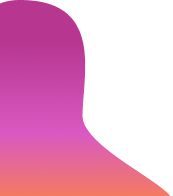
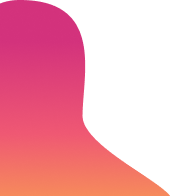
feat: mobile frontend updates - auth, signup, profile, assets

diff --git a/apps/mobile/app/(app)/signup/step3.tsx b/apps/mobile/app/(app)/signup/step3.tsx
@@ -414,7 +414,7 @@ export default function SignupStep3Screen() {
           >
             <Text style={styles.optionText}>{option}</Text>
             {gender === option && (
-              <Ionicons name="checkmark" size={18} color="#7C57C8" />
+              <Ionicons name="checkmark" size={18} color="#8E1C62" />
             )}
           </Pressable>
         ))}
@@ -444,7 +444,7 @@ export default function SignupStep3Screen() {
           >
             <Text style={styles.optionText}>{option}</Text>
             {lookingFor === option && (
-              <Ionicons name="checkmark" size={18} color="#7C57C8" />
+              <Ionicons name="checkmark" size={18} color="#8E1C62" />
             )}
           </Pressable>
         ))}
@@ -616,7 +616,7 @@ const styles = StyleSheet.create({
   },
   backButtonText: {
     fontSize: 30,
-    color: '#4C2376',
+    color: '#8E1C62',
     fontWeight: '900',
   },
   content: {
@@ -628,7 +628,7 @@ const styles = StyleSheet.create({
   title: {
     fontSize: 18,
     fontWeight: '700',
-    color: '#4C2376',
+    color: '#8E1C62',
     textAlign: 'center',
     marginBottom: 52,
   },
@@ -711,7 +711,7 @@ const styles = StyleSheet.create({
     backgroundColor: '#B9B9B9',
   },
   activeDot: {
-    backgroundColor: '#7C57C8',
+    backgroundColor: '#8E1C62',
   },
   modalOverlay: {
     flex: 1,
@@ -728,7 +728,7 @@ const styles = StyleSheet.create({
   modalTitle: {
     fontSize: 18,
     fontWeight: '700',
-    color: '#4C2376',
+    color: '#8E1C62',
     marginBottom: 14,
     textAlign: 'center',
   },
@@ -747,7 +747,7 @@ const styles = StyleSheet.create({
   },
   modalDoneButton: {
     marginTop: 16,
-    backgroundColor: '#D85BC7',
+    backgroundColor: '#D3327C',
     borderRadius: 999,
     alignItems: 'center',
     justifyContent: 'center',
@@ -793,13 +793,13 @@ const styles = StyleSheet.create({
   sheetTitle: {
     fontSize: 18,
     fontWeight: '700',
-    color: '#4C2376',
+    color: '#8E1C62',
   },
 
   sheetDoneText: {
     fontSize: 15,
     fontWeight: '700',
-    color: '#D85BC7',
+    color: '#D3327C',
   },
 
   sheetScrollContent: {
@@ -836,8 +836,8 @@ const styles = StyleSheet.create({
   },
 
   interestChipSelected: {
-    backgroundColor: '#D85BC7',
-    borderColor: '#D85BC7',
+    backgroundColor: '#D3327C',
+    borderColor: '#D3327C',
   },
 
   interestChipText: {

diff --git a/apps/mobile/app/(app)/signup/step4.tsx b/apps/mobile/app/(app)/signup/step4.tsx
@@ -356,7 +356,7 @@ const styles = StyleSheet.create({
   },
   backButtonText: {
     fontSize: 30,
-    color: '#4C2376',
+    color: '#8E1C62',
     fontWeight: '900',
   },
   content: {
@@ -368,7 +368,7 @@ const styles = StyleSheet.create({
   title: {
     fontSize: 18,
     fontWeight: '700',
-    color: '#4C2376',
+    color: '#8E1C62',
     textAlign: 'center',
     marginBottom: 52,
   },
@@ -429,7 +429,7 @@ const styles = StyleSheet.create({
   signupButton: {
     alignSelf: 'center',
     marginTop: 10,
-    backgroundColor: '#D85BC7',
+    backgroundColor: '#D3327C',
     paddingHorizontal: 22,
     paddingVertical: 10,
     borderRadius: 999,
@@ -455,7 +455,7 @@ const styles = StyleSheet.create({
     backgroundColor: '#B9B9B9',
   },
   activeDot: {
-    backgroundColor: '#7C57C8',
+    backgroundColor: '#8E1C62',
   },
   modalOverlay: {
     flex: 1,
@@ -472,7 +472,7 @@ const styles = StyleSheet.create({
   modalTitle: {
     fontSize: 18,
     fontWeight: '700',
-    color: '#4C2376',
+    color: '#8E1C62',
     marginBottom: 14,
     textAlign: 'center',
   },
@@ -509,7 +509,7 @@ const styles = StyleSheet.create({
   verifyButton: {
     alignSelf: 'center',
     marginTop: 4,
-    backgroundColor: '#D85BC7',
+    backgroundColor: '#D3327C',
     paddingHorizontal: 20,
     paddingVertical: 10,
     borderRadius: 999,
@@ -523,7 +523,7 @@ const styles = StyleSheet.create({
     backgroundColor: '#D3D3D3',
   },
   verifyButtonVerified: {
-    backgroundColor: '#7C57C8',
+    backgroundColor: '#8E1C62',
   },
   verifyButtonText: {
     color: '#FFFFFF',
@@ -546,7 +546,7 @@ const styles = StyleSheet.create({
     marginBottom: 18,
   },
   modalVerifyButton: {
-    backgroundColor: '#D85BC7',
+    backgroundColor: '#D3327C',
     paddingHorizontal: 24,
     paddingVertical: 10,
     borderRadius: 999,
@@ -595,7 +595,7 @@ const styles = StyleSheet.create({
   },
   resendButtonText: {
     fontSize: 13,
-    color: '#D85BC7',
+    color: '#D3327C',
     fontWeight: '600',
   },
   resendButtonTextDisabled: {

diff --git a/apps/mobile/app/(app)/login/login.tsx b/apps/mobile/app/(app)/login/login.tsx
@@ -188,7 +188,7 @@ const styles = StyleSheet.create({
   },
   backButtonText: {
     fontSize: 30,
-    color: '#4C2376',
+    color: '#8E1C62',
     fontWeight: '900',
   },
   content: {
@@ -204,7 +204,7 @@ const styles = StyleSheet.create({
   title: {
     fontSize: 30,
     fontWeight: '700',
-    color: '#44206B',
+    color: '#8E1C62',
     marginBottom: 30,
   },
   form: {
@@ -213,7 +213,7 @@ const styles = StyleSheet.create({
   },
   label: {
     fontSize: 14,
-    color: '#44206B',
+    color: '#8E1C62',
     fontWeight: '600',
     marginBottom: 8,
     marginLeft: 4,
@@ -267,13 +267,13 @@ const styles = StyleSheet.create({
     marginRight: 4,
   },
   forgotPasswordText: {
-    color: '#D85BC7',
+    color: '#D3327C',
     fontSize: 13,
     fontWeight: '600',
   },
   button: {
     marginTop: 10,
-    backgroundColor: '#D85BC7',
+    backgroundColor: '#D3327C',
     paddingVertical: 14,
     borderRadius: 999,
     alignItems: 'center',

diff --git a/apps/mobile/app/(app)/signup/step1.tsx b/apps/mobile/app/(app)/signup/step1.tsx
@@ -122,13 +122,13 @@ const styles = StyleSheet.create({
   title: {
     fontSize: 34,
     fontWeight: '700',
-    color: '#44206B',
+    color: '#8E1C62',
     textAlign: 'center',
     marginBottom: 14,
   },
   subtitle: {
     fontSize: 17,
-    color: '#5A3B84',
+    color: '#8E1C62',
     textAlign: 'center',
     lineHeight: 24,
     marginBottom: 34,
@@ -143,12 +143,12 @@ const styles = StyleSheet.create({
     maxWidth: 310,
   },
   highlight: {
-    color: '#8F47C7',
+    color: '#8E1C62',
     fontWeight: '600',
   },
   button: {
     marginTop: 10,
-    backgroundColor: '#D85BC7',
+    backgroundColor: '#D3327C',
     paddingHorizontal: 30,
     paddingVertical: 12,
     borderRadius: 999,
@@ -173,6 +173,6 @@ const styles = StyleSheet.create({
     backgroundColor: '#BDBDBD',
   },
   activeDot: {
-    backgroundColor: '#7C57C8',
+    backgroundColor: '#8E1C62',
   },
 });

diff --git a/apps/mobile/app/index.tsx b/apps/mobile/app/index.tsx
@@ -108,7 +108,7 @@ const styles = StyleSheet.create({
   title: {
     fontSize: 32,
     fontWeight: '700',
-    color: '#44206B',
+    color: '#8E1C62',
     textAlign: 'center',
     marginBottom: 12,
   },
@@ -129,20 +129,20 @@ const styles = StyleSheet.create({
     width: '80%',
     backgroundColor: '#FFFFFF',
     borderWidth: 1.5,
-    borderColor: '#D85BC7',
+    borderColor: '#D3327C',
     paddingVertical: 14,
     borderRadius: 999,
     alignItems: 'center',
   },
   signupButton: {
     width: '80%',
-    backgroundColor: '#D85BC7',
+    backgroundColor: '#D3327C',
     paddingVertical: 14,
     borderRadius: 999,
     alignItems: 'center',
   },
   loginButtonText: {
-    color: '#D85BC7',
+    color: '#D3327C',
     fontSize: 16,
     fontWeight: '700',
   },

diff --git a/apps/mobile/app/(app)/signup/step2.tsx b/apps/mobile/app/(app)/signup/step2.tsx
@@ -322,7 +322,7 @@ const styles = StyleSheet.create({
 
   backButtonText: {
     fontSize: 30,
-    color: '#4C2376',
+    color: '#8E1C62',
     fontWeight: '900',
   },
 
@@ -336,7 +336,7 @@ const styles = StyleSheet.create({
   title: {
     fontSize: 18,
     fontWeight: '700',
-    color: '#4C2376',
+    color: '#8E1C62',
     textAlign: 'center',
     marginBottom: 52,
   },
@@ -401,7 +401,7 @@ const styles = StyleSheet.create({
     backgroundColor: '#B9B9B9',
   },
   activeDot: {
-    backgroundColor: '#7C57C8',
+    backgroundColor: '#8E1C62',
   },
   inputWrapper: {
     height: 40,
@@ -436,7 +436,7 @@ const styles = StyleSheet.create({
 
   suggestButtonText: {
     fontSize: 11,
-    color: '#4C2376',
+    color: '#8E1C62',
     fontWeight: '600',
   },
 

diff --git a/apps/mobile/components/profile/EditProfileSection.tsx b/apps/mobile/components/profile/EditProfileSection.tsx
@@ -79,21 +79,6 @@ export default function EditProfileSection({
       />
 
       <ProfileField
-        label="Birth Date"
-        value={values.birthDate}
-        onChangeText={(value) => onChangeField('birthDate', value)}
-        placeholder="MM/DD/YYYY"
-      />
-
-      <ProfileField
-        label="Email Address"
-        value={values.email}
-        onChangeText={(value) => onChangeField('email', value)}
-        placeholder="Enter email"
-        keyboardType="email-address"
-      />
-
-      <ProfileField
         label="Bio"
         value={values.bio}
         onChangeText={(value) => onChangeField('bio', value)}

diff --git a/apps/mobile/app/(app)/login/forgotPassword.tsx b/apps/mobile/app/(app)/login/forgotPassword.tsx
@@ -107,7 +107,7 @@ const styles = StyleSheet.create({
   title: {
     fontSize: 30,
     fontWeight: '700',
-    color: '#44206B',
+    color: '#8E1C62',
     marginBottom: 30,
   },
   form: {
@@ -116,7 +116,7 @@ const styles = StyleSheet.create({
   },
   label: {
     fontSize: 14,
-    color: '#44206B',
+    color: '#8E1C62',
     fontWeight: '600',
     marginBottom: 8,
     marginLeft: 4,
@@ -136,7 +136,7 @@ const styles = StyleSheet.create({
   },
   button: {
     marginTop: 10,
-    backgroundColor: '#D85BC7',
+    backgroundColor: '#D3327C',
     paddingVertical: 14,
     borderRadius: 999,
     alignItems: 'center',

diff --git a/apps/mobile/app/_layout.tsx b/apps/mobile/app/_layout.tsx
@@ -6,7 +6,7 @@ export default function RootLayout() {
   return (
     <AuthProvider>
       <Stack screenOptions={{ headerShown: false }}>
-        <Stack.Screen name="(app)" />
+        <Stack.Screen name="index" />
       </Stack>
     </AuthProvider>
   );
